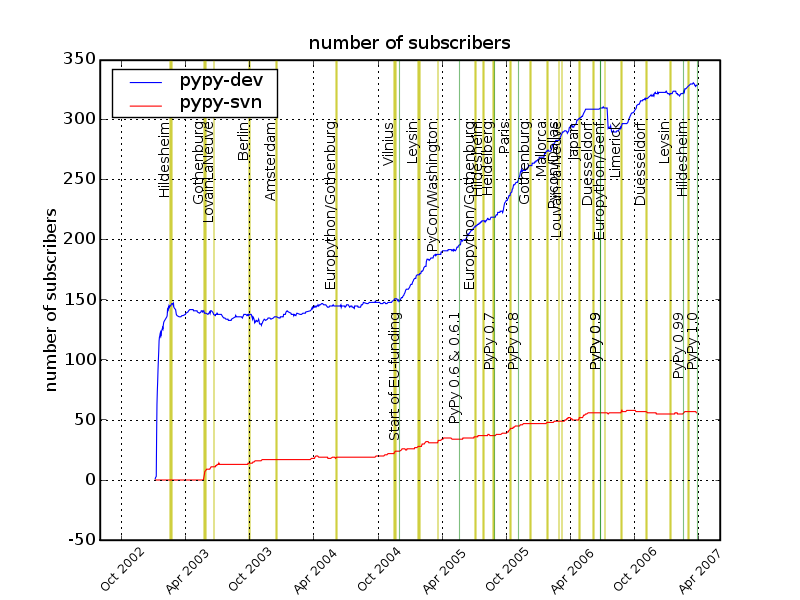
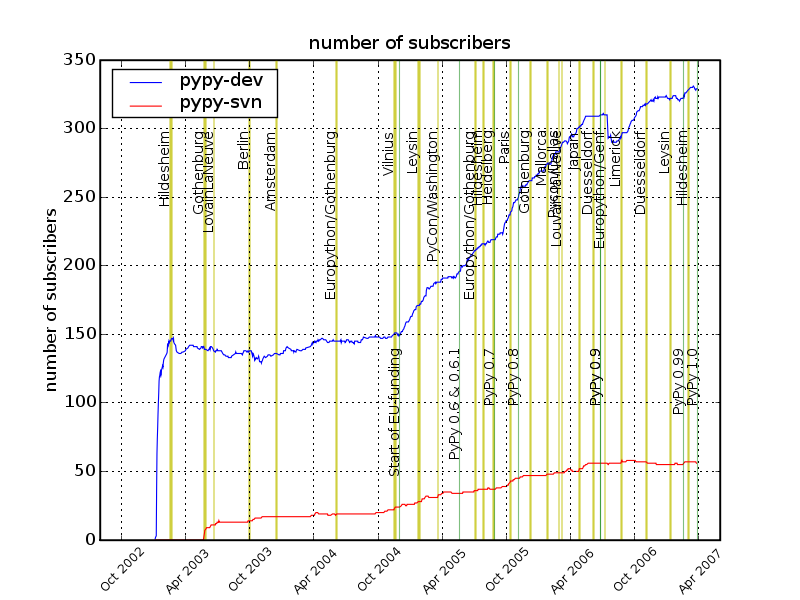
great. the plots improve if I _disable_ the autoscaler. matplotlib sucks.

diff --git a/pypy/doc/statistic/format.py b/pypy/doc/statistic/format.py
@@ -94,7 +94,7 @@ def csv2png(p):
     pylab.xlabel("")
     ticklabels = ax.get_xticklabels()
     pylab.setp(ticklabels, 'rotation', 45, size=9)
-    ax.autoscale_view()
+#    ax.autoscale_view()
     ax.grid(True)
     pylab.title(title)
 
